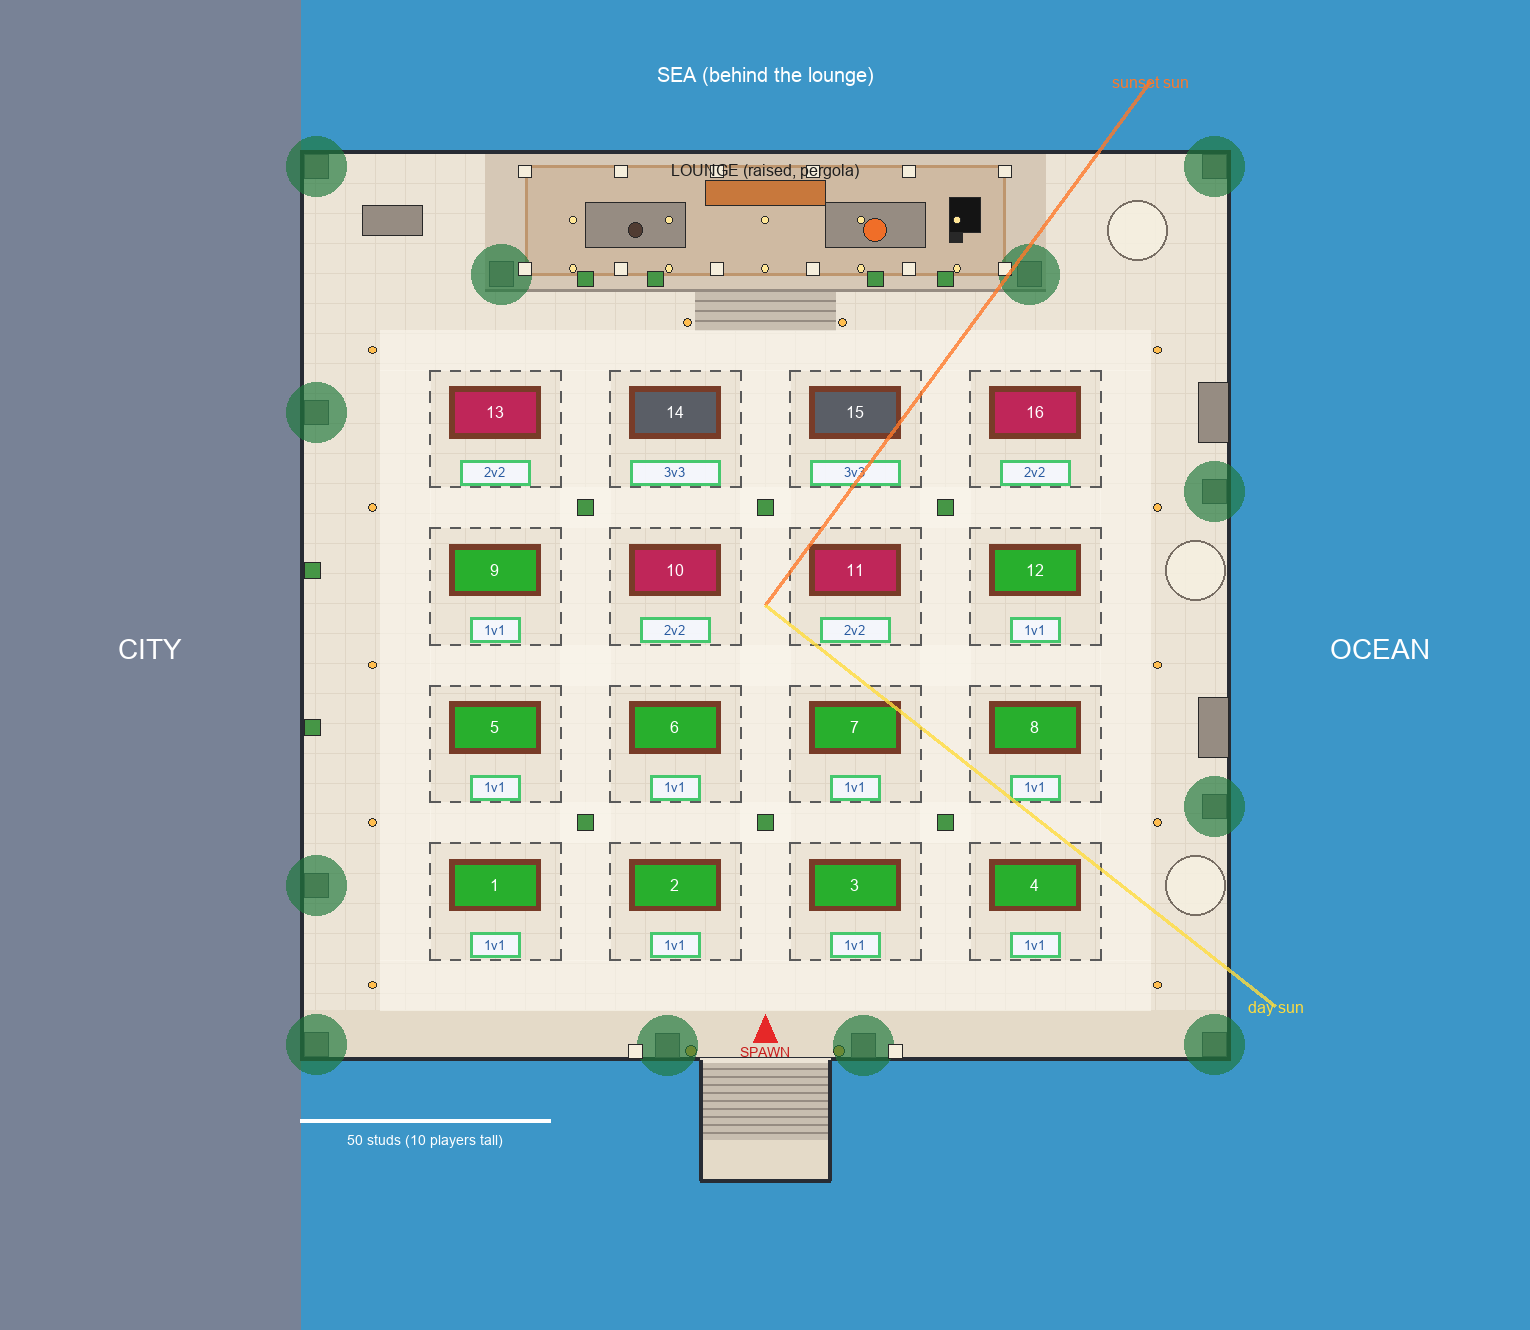
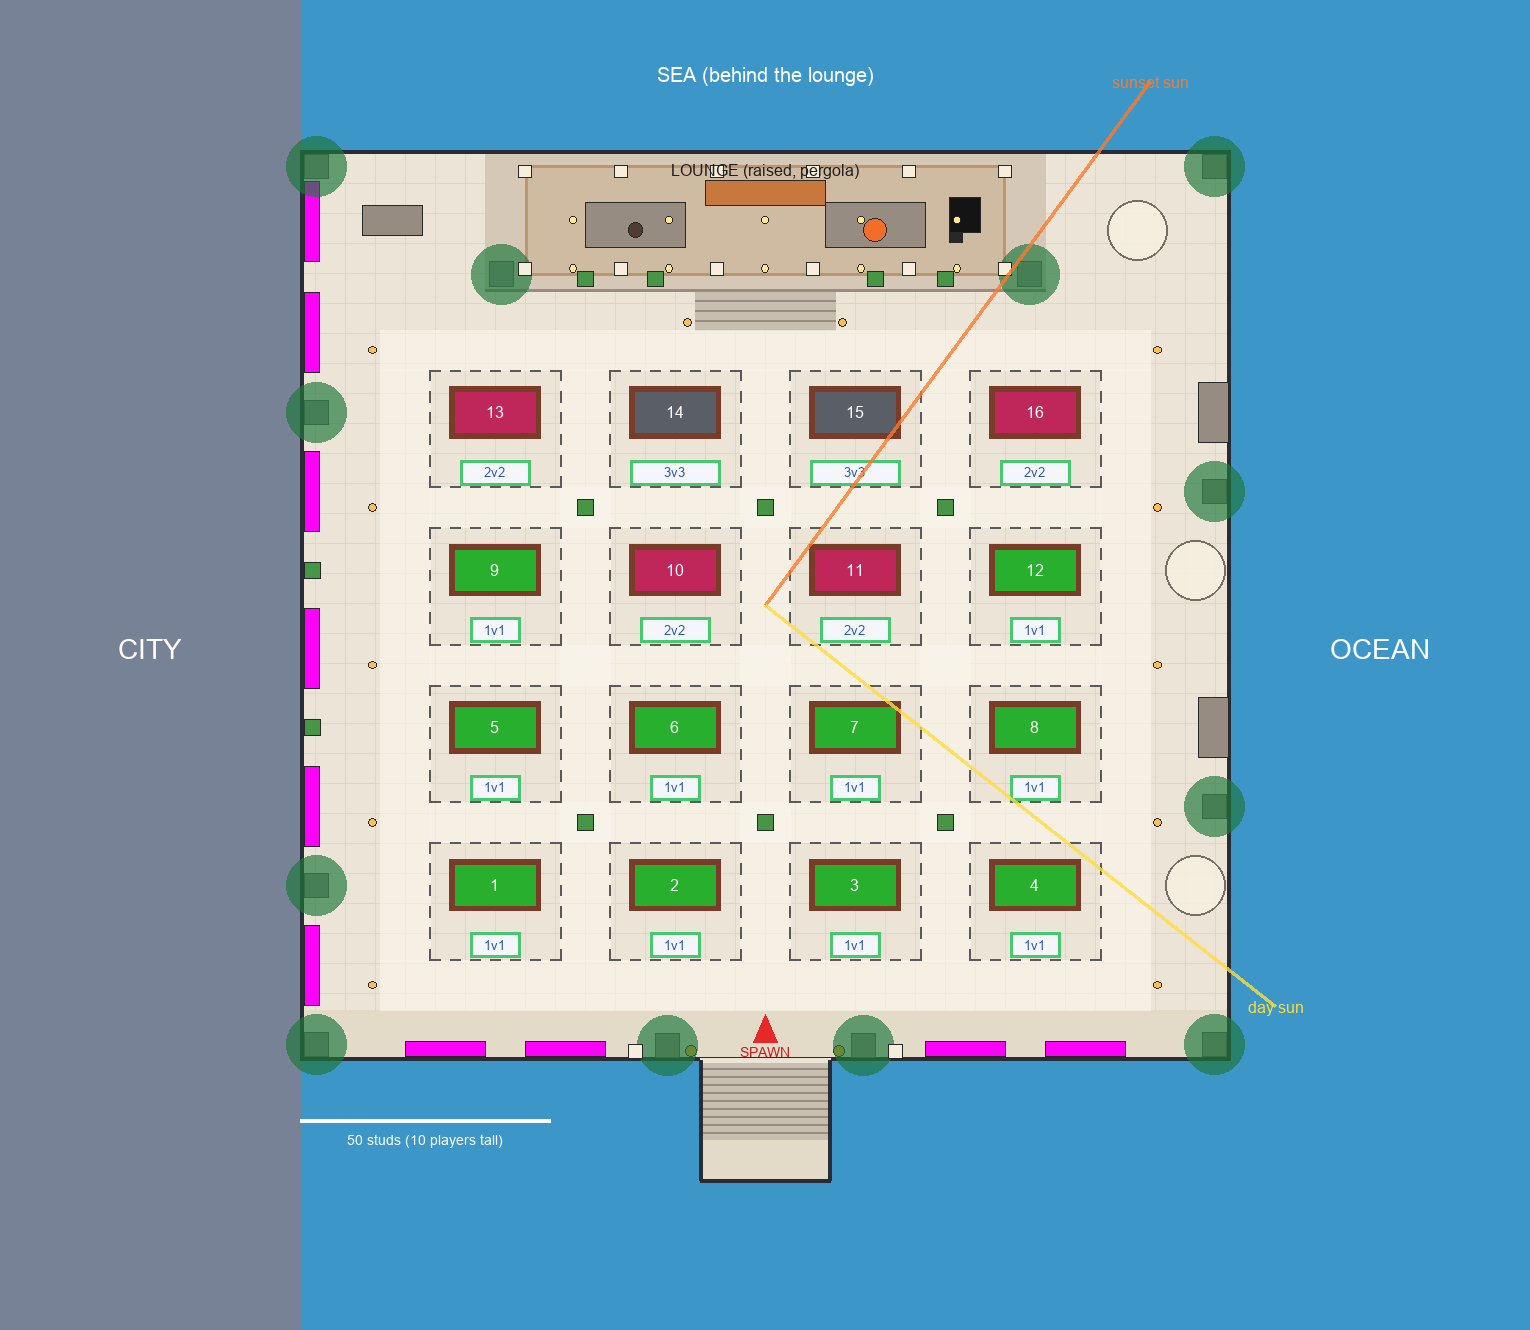
Rooftop map Stage 1: gray-box round two from the critic
- Fern troughs along the city railing and the front parapet, so the edge
  reads as one planted line like the art; the pergola stands 18 clear.
- Gray-box fixes: palm crowns are flat discs (a Ball part is as big as its
  smallest side), gabled umbrella canopies, chunkier slats, the bar's lit
  shelves split to its ends so the sea shows over it.
- The world: the city stays below the roof within 1500 studs with a few slim
  towers far off; islands spread evenly and lower; flat sea and ground out to
  8000 studs past the Terrain water; the Near and Backdrop models stream
  Persistent (StreamingEnabled kept the islands off the client).

Re-verified in Play: 24 of 24 paths from the spawn (16 pads, the lounge, the
side zones, the lower landing), 7 of 7 edge pushes stay on the roof, a clean
console; lint and 336 tests pass.

diff --git a/assets/map/gen_graybox.py b/assets/map/gen_graybox.py
@@ -34,7 +34,8 @@ COAST_X = 110.0  # water to the right of this...
 COAST_Z = -150.0  # ...and behind this, between CITY_BACK_X and COAST_X
 CITY_BACK_X = -350.0  # the city carries on behind the tower on the left, to the horizon
 MAX_PART = 2000.0  # Roblox clamps a Part at 2048 studs; big slabs are tiled
-WATER_REACH = 3000.0  # Terrain water out to this far
+WATER_REACH = 3000.0  # Terrain water out to this far...
+FAR_REACH = 8000.0  # ...then flat sea and ground slabs to here, so no edge shows before the haze
 
 with open(os.path.join(HERE, 'Palette.json')) as handle:
     PALETTE = json.load(handle)
@@ -181,10 +182,10 @@ def build(g, plan):
     for name, z in (('FrontBeam', pz1 - P['pergola_column'] / 2), ('BackBeam', pz0 + P['pergola_column'] / 2),
                     ('MidBeam', (pz0 + pz1) / 2)):
         g.part(R, 'Pergola' + name, (px1 - px0 + 3, 1.6, 1.4), (0, beam_y + 0.8, z), C['cream'], collide=True)
-    x = px0 + 1.0
+    x = px0 + 1.5
     while x < px1 - 0.5:
-        g.part(R, 'PergolaSlat', (0.5, 0.6, pz1 - pz0 + 2), (x, beam_y + 1.9, (pz0 + pz1) / 2), C['slat'])
-        x += 2.0
+        g.part(R, 'PergolaSlat', (1.2, 0.6, pz1 - pz0 + 2), (x, beam_y + 1.9, (pz0 + pz1) / 2), C['slat'])
+        x += 3.0
     # Vines along the front beam: a few green clumps, a pink one at the ocean end (02).
     for k, vx in enumerate((px0 + 2, -30, 0.0, 30, px1 - 2)):
         colour = hexc('flower_vivid') if k == 4 else C['leaf']
@@ -209,6 +210,16 @@ def build(g, plan):
     slab(g, N, 'Beach', (COAST_X, COAST_Z - 60, COAST_X + 60, R_), SEA_Y - 1, SEA_Y + 2, C['sand'])
     slab(g, N, 'Beach', (CITY_BACK_X, COAST_Z - 60, COAST_X, COAST_Z), SEA_Y - 1, SEA_Y + 2, C['sand'])
     slab(g, N, 'Beach', (CITY_BACK_X, -R_, CITY_BACK_X + 60, COAST_Z - 60), SEA_Y - 1, SEA_Y + 2, C['sand'])
+    # Beyond the Terrain water and the land, flat slabs to the horizon (a hair under the water
+    # line so they never fight the Terrain's surface).
+    F_ = FAR_REACH
+    # Darker than water_far: the slab takes the sun directly where the Terrain water does not, so
+    # this is the albedo that renders like the far water (sampled from a Stage 1 capture).
+    far_sea = '#5A82A8'
+    for rect in ((R_, -F_, F_, F_), (COAST_X, R_, R_, F_), (CITY_BACK_X, -F_, R_, -R_)):
+        slab(g, 'Backdrop', 'SeaFar', rect, SEA_Y - 3, SEA_Y - 0.6, far_sea)
+    for rect in ((-F_, -F_, -R_, F_), (-R_, R_, COAST_X, F_), (-R_, -F_, CITY_BACK_X, -R_)):
+        slab(g, 'Backdrop', 'LandFar', rect, STREET_Y - 4, STREET_Y, C['street'])
 
     # ---- Backdrop: block city and island cones (seeded) -------------------------------------
     rng = random.Random(SEED)
@@ -230,28 +241,43 @@ def build(g, plan):
         d = math.hypot(x, z)
         w = rng.uniform(40, 110)
         dd = rng.uniform(40, 110)
-        if d < 450:
-            height = rng.uniform(80, 260)  # neighbours: roofs below ours
-        elif rng.random() < 0.12:
-            height = rng.uniform(320, 460)  # a few towers taller than ours
-        else:
-            height = rng.uniform(120, 300)
+        # Everything within 1500 studs stays below the roof (Y -40 at most), so the city is a
+        # view down onto rooftops, not a wall; the tall towers stand far off (below).
+        height = rng.uniform(60, 180) if d < 450 else rng.uniform(100, 260)
         colour = C['glass_city'] if rng.random() < 0.45 else C['facade']
         g.part(B, 'Building', (w, height, dd), (x, STREET_Y + height / 2, z), colour, yaw=round(rng.choice((0, 0, 0, 15, 30)), 1))
         placed += 1
+    # A few slim towers taller than ours, far off on the city side (the art's skyline).
+    towers = 0
+    while towers < 8:
+        a = math.radians(rng.uniform(-150, -30))  # azimuth: -90 is straight out on the city side
+        dist = rng.uniform(1800, 2500)
+        x, z = dist * math.sin(a), -dist * math.cos(a)
+        if z < COAST_Z and x > CITY_BACK_X - 100:
+            continue
+        foot = rng.uniform(40, 60)
+        height = -STREET_Y + rng.uniform(100, 200)
+        g.part(B, 'Tower', (foot, height, foot), (x, STREET_Y + height / 2, z), C['glass_city'])
+        towers += 1
     # Islands: steep green cones over the sea, toward the ocean and behind; one beside the sunset
     # sun (azimuth 36, Spec section 6).
-    islands = [(36.4 + 6, 1900, 260, 360)]
-    for _ in range(9):
-        az = rng.uniform(15, 150)
-        dist = rng.uniform(900, 2600)
-        radius = rng.uniform(120, 300)
-        height = radius * rng.uniform(0.8, 1.3)
+    # Peaks up to about 140 studs above the roof, 1400 to 2600 out: a few degrees over the
+    # horizon, like the art.
+    # Spread evenly round the sea with some jitter (random azimuths clumped), near and far
+    # alternating, like the art's scattered islands.
+    islands = [(36.4 + 6, 2200, 280, 440)]
+    for k in range(9):
+        az = 18 + k * 15 + rng.uniform(-4, 4)
+        dist = (1500 if k % 2 == 0 else 2300) + rng.uniform(-150, 250)
+        radius = rng.uniform(150, 280)
+        height = rng.uniform(300, 430)
+        if abs(az - islands[0][0]) < 8:
+            continue
         islands.append((az, dist, radius, height))
     for k, (az, dist, radius, height) in enumerate(islands):
         a = math.radians(az)
         cx, cz = dist * math.sin(a), -dist * math.cos(a)
-        steps = 6
+        steps = 12
         for s in range(steps):
             r = radius * (1 - s / steps) ** 1.15
             h = height / steps
@@ -283,21 +309,27 @@ def prop(g, p, i):
         g.part(F, name, size, pos, colour, local=L, **kw)
 
     if kind == 'table_glow':
-        part((w, 0.05, d), (0, 0.03, 0), C['glow'], material='Neon', transparency=0.75)
+        part((w, 0.05, d), (0, 0.03, 0), C['glow'], material='Neon', transparency=0.88)
     elif kind == 'fern_planter':
         part((w, 3.0, d), (0, 1.5, 0), C['stone'], collide=True)
-        part((w + 1.2, 4.0, d + 1.2), (0, 4.8, 0), C['leaf'], shape='Ball')
+        part((4.4, 4.4, 4.4), (0, 5.0, 0), C['leaf'], shape='Ball')
     elif kind == 'palm_planter':
         part((w, 3.2, d), (0, 1.6, 0), C['stone'], collide=True)
         part((1.1, h - 7, 1.1), (0, 3.2 + (h - 7) / 2, 0), C['trunk'])
-        part((18, 4, 18), (0, h - 4, 0), C['palm'], shape='Ball')
+        # A Ball part is as big as its smallest side, so the flat crown is a disc.
+        part((3.0, 18, 18), (0, h - 4, 0), C['palm'], shape='Cylinder', rot=(0, 0, 90))
+    elif kind == 'planter_bed':
+        part((w, 2.5, d), (0, 1.25, 0), C['stone'], collide=True)
+        part((w - 0.4, 2.2, d + 0.8), (0, 3.4, 0), C['leaf'])
     elif kind in ('lantern', 'lantern_tall'):
         part((w, h, d), (0, h / 2, 0), C['lantern_frame'], collide=True)
         part((w - 0.3, h * 0.7, d + 0.02), (0, h * 0.5, 0), C['lantern_glass'], material='Neon')
         part((w + 0.02, h * 0.7, d - 0.3), (0, h * 0.5, 0), C['lantern_glass'], material='Neon')
     elif kind == 'umbrella_set':
         part((0.4, 10, 0.4), (0, 5, 0), C['pole'], collide=True)
-        part((0.6, 12, 12), (0, 9.3, 0), C['canvas'], shape='Cylinder', rot=(0, 0, 90))
+        # A square pyramid-ish canopy (a hipped gable of two wedges), rim at 9, peak at 11.
+        part((12, 2, 6), (0, 10, 3), C['canvas'], shape='Wedge')
+        part((12, 2, 6), (0, 10, -3), C['canvas'], shape='Wedge', rot=(0, 180, 0))
         for lx in (-1.8, 1.8):
             part((2.0, 1.0, 5.6), (lx, 0.5, 0.6), C['lounger'], collide=True)
             part((2.0, 1.4, 0.4), (lx, 1.6, -2.0), C['lounger'], rot=(-30, 0, 0))
@@ -329,9 +361,11 @@ def prop(g, p, i):
         part((w, 3.2, 2.4), (0, 1.6, d / 2 - 1.2), C['cream'], collide=True)
         part((w, 0.25, 2.6), (0, 3.3, d / 2 - 1.2), C['wood_top'])
         part((w, 0.3, 0.1), (0, 3.0, d / 2 + 0.02), C['led'], material='Neon')
-        part((w, 8.0, 1.0), (0, 4.0, -d / 2 + 0.5), C['wood_dark'], collide=True)
-        for k in range(3):
-            part((w - 1, 0.2, 1.0), (0, 4.5 + 1.4 * k, -d / 2 + 1.3), C['led'], material='Neon')
+        # Lit shelves in two units at the ends, so the sea shows over the middle of the bar.
+        for side in (-1, 1):
+            part((7.0, 6.0, 1.0), (side * (w / 2 - 3.5), 3.0, -d / 2 + 0.5), C['wood_dark'], collide=True)
+            for k in range(2):
+                part((6.4, 0.2, 0.9), (side * (w / 2 - 3.5), 3.6 + 1.6 * k, -d / 2 + 1.1), C['led'])
     elif kind == 'globe_light':
         part((w, w, w), (0, 0, 0), C['globe'], shape='Ball', material='Neon')
         part((0.08, 3.0, 0.08), (0, 1.5, 0), C['frame'])

diff --git a/assets/map/map_layout.py b/assets/map/map_layout.py
@@ -93,7 +93,7 @@ P = {
     'pergola_half_width': 48.0,
     'pergola_front_inset': 3.0,  # pergola front columns this far behind the platform edge
     'pergola_depth': 22.0,
-    'pergola_height': 15.0,  # clear height under the beams
+    'pergola_height': 18.0,  # clear height under the beams (tall, so it anchors the view from the entrance)
     'pergola_column': 2.6,
     'pergola_bays': 5,  # 6 columns per row, 19.2 apart: no column in the middle of the view
     # Spawn on the landing, facing the tables. The SpawnLocation is the art's entrance mat.
@@ -117,11 +117,12 @@ PROP_SIZE = {
     'piano_bench': (2.4, 1.0, 1.4),
     'snack_counter': (24.0, 5.0, 8.0),  # the art's lit back bar: counter 3.2 high, shelves to 8
     'globe_light': (1.5, 1.5, 1.5),
+    'planter_bed': (16.0, 3.0, 5.0),  # a long low trough of ferns along a parapet: 2.5 high, ferns above
     'table_glow': (22.0, 14.0, 0.02),
 }
 
 # Things that block walking (their footprint is solid). Glow planes and lights do not.
-SOLID = {'fern_planter', 'palm_planter', 'lantern', 'lantern_tall', 'umbrella_set', 'side_couch',
+SOLID = {'fern_planter', 'palm_planter', 'planter_bed', 'lantern', 'lantern_tall', 'umbrella_set', 'side_couch',
          'lounge_couch', 'coffee_table', 'fire_pit', 'piano', 'piano_bench', 'snack_counter',
          'column'}
 
@@ -304,6 +305,13 @@ def build():
         kind = 'palm_planter' if k in (0, 3) else 'fern_planter'
         size = PROP_SIZE[kind][0]
         prop(kind, -(rail_x - size / 2 - 0.8), z, 90.0)
+    # ...and troughs of ferns between them, so the city railing reads as one green line (the
+    # top-down art's planted edge).
+    bed_d = PROP_SIZE['planter_bed'][1]
+    bed_z = [(row_z[k] + row_z[k + 1]) / 2 for k in range(3)] + [row_z[0] + 16.0, row_z[3] - 16.0,
+                                                                  (row_z[3] - 16.0 + back_edge) / 2 - 4.0]
+    for z in bed_z:
+        prop('planter_bed', -(rail_x - bed_d / 2 - 0.8), z, 90.0)
     # Ocean side (02, designer's choice): umbrella sets with loungers at the first and third
     # rows, sofa groups along the railing at the second and fourth, palms in the gaps between.
     for k, z in enumerate(row_z):
@@ -326,6 +334,9 @@ def build():
         column(side * (sx + 13.0), front_edge - col / 2 - 0.3, 0.0, P['entrance_column_height'], col, 'entrance')
     for side in (-1, 1):
         prop('palm_planter', side * (rail_x - 3.2), front_edge - 3.2)
+        # Troughs of ferns along the front parapet, between the stair and the corners.
+        for x in (40.0, 64.0):
+            prop('planter_bed', side * x, front_edge - bed_d / 2 - 0.8)
 
     # Lounge (02, top-down, lounge-back): the raised platform across the back centre, under
     # the pergola. The snack counter is the art's lit back bar, centred along the back; in

diff --git a/assets/map/Spec.md b/assets/map/Spec.md
@@ -177,7 +177,7 @@ the art: 36 against the art's 34.
 | Back walkway | -77 to 77 | -63.75 to -55.75 | 0 |
 | Lounge central flight: 4 steps, 0.5 up, 2 deep | -14 to 14 | -71.75 to -63.75 | 0 up to 2 |
 | Lounge platform (the rest of its front edge is a 2-stud riser) | -56 to 56 | -99.75 to -71.75 | 2 |
-| Pergola: 5 bays of 19.2, 15 clear | -48 to 48 | -96.75 to -74.75 | 2 |
+| Pergola: 5 bays of 19.2, 18 clear | -48 to 48 | -96.75 to -74.75 | 2 |
 
 - **The edge all round** is a low parapet (1.2 high, 1.2 thick) with a dark-framed glass
   railing to 3.6 above the floor, and an invisible wall above it to 40.
@@ -205,6 +205,7 @@ top-down, and one big item per table row along each railing.
 | Prop | Count | Where |
 |---|---:|---|
 | Fern planter | 12 | 6 at the aisle crossings (none in the middle row gap); 2 on the city railing; 4 on the lounge edge beside the flight |
+| Fern trough (a long low planter) | 10 | 6 along the city railing between the big planters, so the edge reads as one green line (the top-down art); 4 along the front parapet |
 | Palm planter | 12 | 2 on the city railing; 2 on the ocean railing; 2 beside the stair; 2 in the front corners; 2 in the back corners; 2 at the platform's front corners |
 | Lantern | 12 | 5 per side at the row gaps and the front and back walkways; 2 flanking the lounge flight |
 | Tall lantern | 2 | flanking the stair head |
@@ -237,7 +238,8 @@ Width x depth x height in studs. "P" is player scale (1 m = 2.86 studs); decor i
 | Grand piano | 4.4 x 5.8 x 3.0 | P (2.0 x 1.5 m, 1.0 m tall); bench 2.4 x 1.0 x 1.4 |
 | Snack counter | 24 x 5 | counter 3.2 high (P 1.1 m), lit shelves behind to 8 |
 | Globe light | 1.5 round | hangs 3 below the beams |
-| Pergola | 96 x 22, 15 clear | columns 2.6 square, cream; slatted wood roof with vines and a few bougainvillea |
+| Pergola | 96 x 22, 18 clear | columns 2.6 square, cream; slatted wood roof (slats about 1.2 wide every 3) with vines and a few bougainvillea |
+| Fern trough | 16 x 3, 2.5 high | ferns above to about 5 |
 | Entrance column | 2.8 square x 16 | cream |
 | Railing | 3.6 high overall | parapet 1.2; posts about every 4 |
 | Steps | riser 0.5 | tread 1.6 (entrance), 2.0 (lounge) |
@@ -262,7 +264,9 @@ cropped to the reference's aspect. They were tuned against the art in Stage 1;
 | ocean-side | `panels/ocean-side.jpg` | (90, 30, -20) | (700, -80, -250) | 25 |
 | phone eye | (none; 750 x 361) | (0, 5.6, 76.75) | (0, 4, 0) | 70 |
 
-Captures are taken in Play mode, where the server has built the tables and pads. A Client
+Captures are taken in Play mode, where the server has built the tables and pads.
+`Workspace.StreamingEnabled` is on, so the Near and Backdrop models are
+`ModelStreamingMode.Persistent` (MapBuilder), or the far world never reaches the client. A Client
 `execute_luau` holds the camera with a RenderStepped connection (`_G.MapPose`) and the
 character waits on the lower landing.
 
